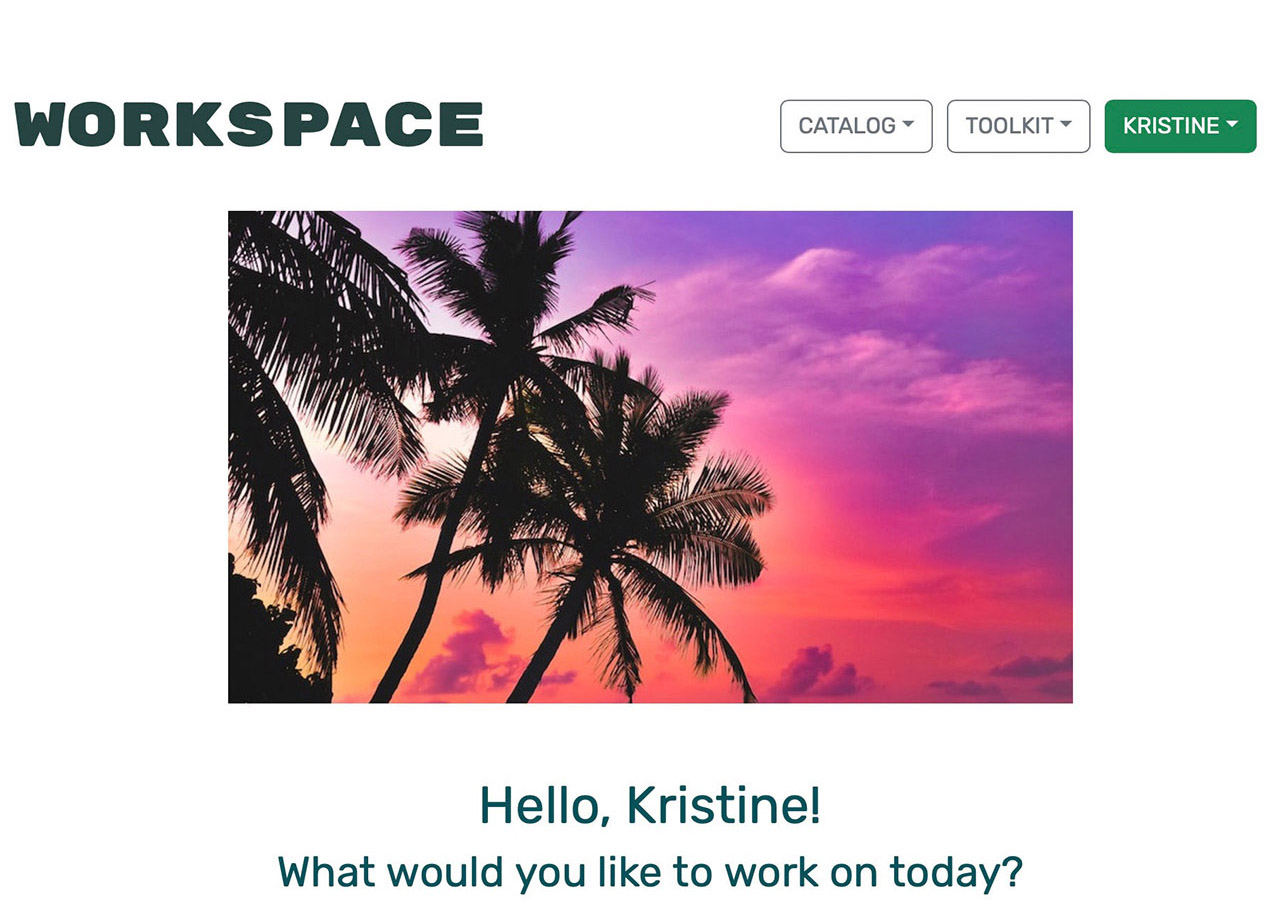
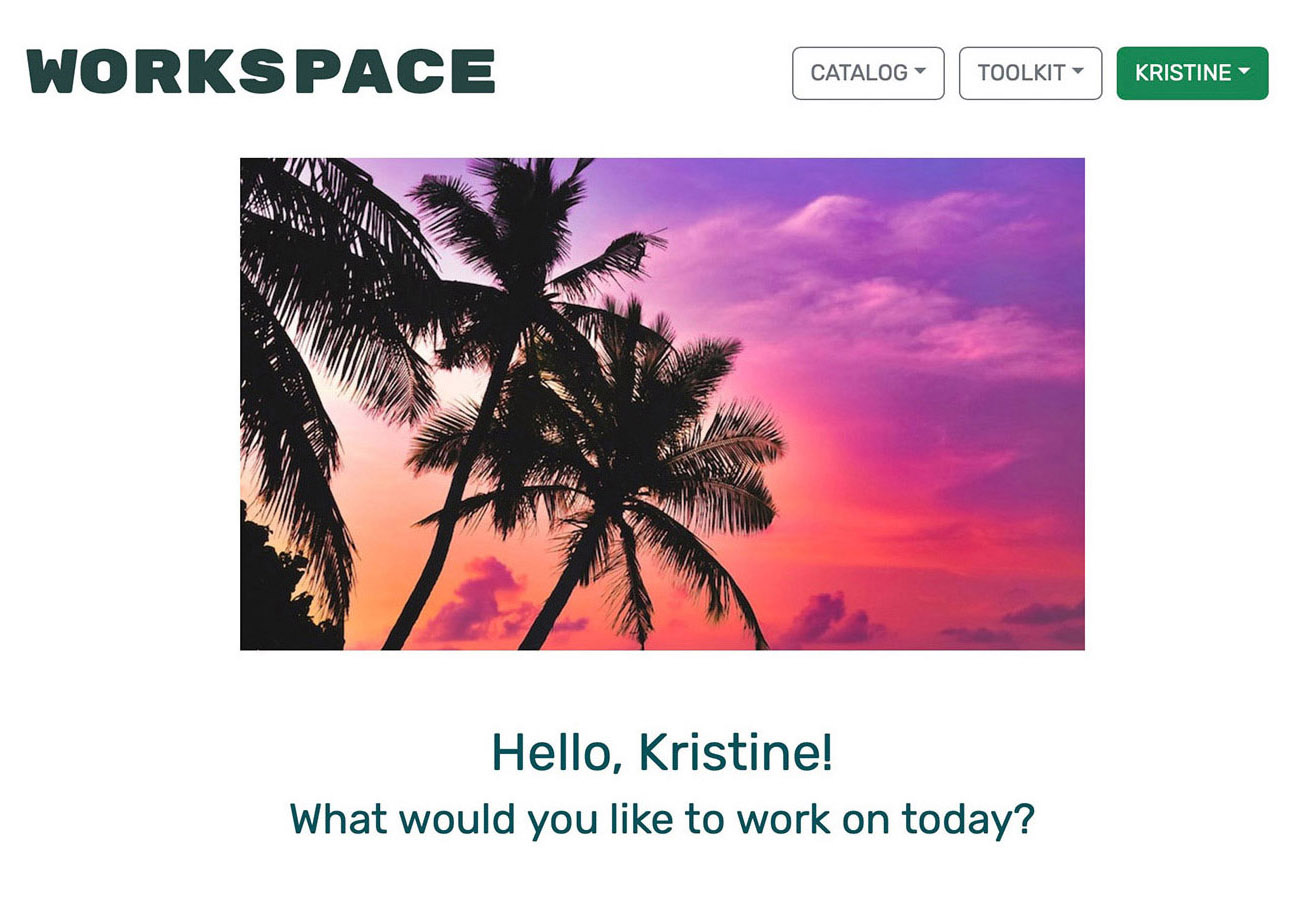
Update Projects page

diff --git a/components/Card.js b/components/Card.js
@@ -14,18 +14,18 @@ const Card = ({ title, description, imgSrc, href }) => (
             <Image
               alt={title}
               src={imgSrc}
-              className="object-cover object-center md:h-36 lg:h-48"
+              className="object-cover object-top md:h-36 lg:h-48"
               width={544}
-              height={306}
+              height={400}
             />
           </Link>
         ) : (
           <Image
             alt={title}
             src={imgSrc}
-            className="object-cover object-center md:h-36 lg:h-48"
+            className="object-cover object-top md:h-36 lg:h-48"
             width={544}
-            height={306}
+            height={400}
           />
         ))}
       <div className="p-6">

diff --git a/data/projectsData.js b/data/projectsData.js
@@ -2,8 +2,14 @@ const projectsData = [
   {
     title: 'WORKSPACE',
     description: `Productivity app to help manage image assets related to design projects.`,
-    imgSrc: '/static/images/projects/previews/workspace-preview.jpg',
+    imgSrc: '/static/images/projects/previews/workspace-preview.png',
     href: '/blog/projects/workspace',
+  },
+  {
+    title: 'Anthoy Parisi for District Attorney',
+    description: `Responsive custom WordPress site for local political candidate.`,
+    imgSrc: '/static/images/projects/previews/parisi-preview.png',
+    href: '/blog/projects/anthony-parisi',
   },
   {
     title: 'Cookbook Club',
